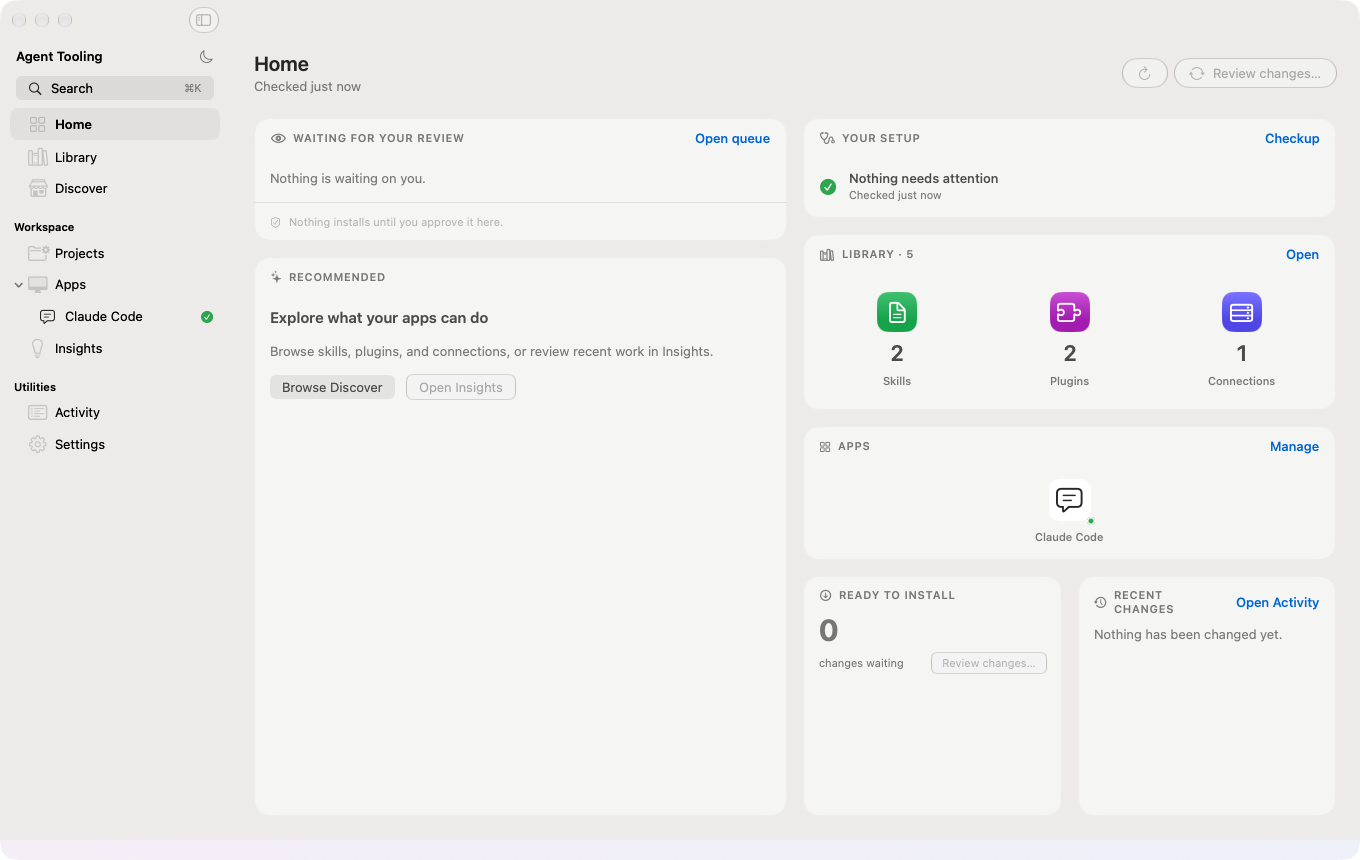
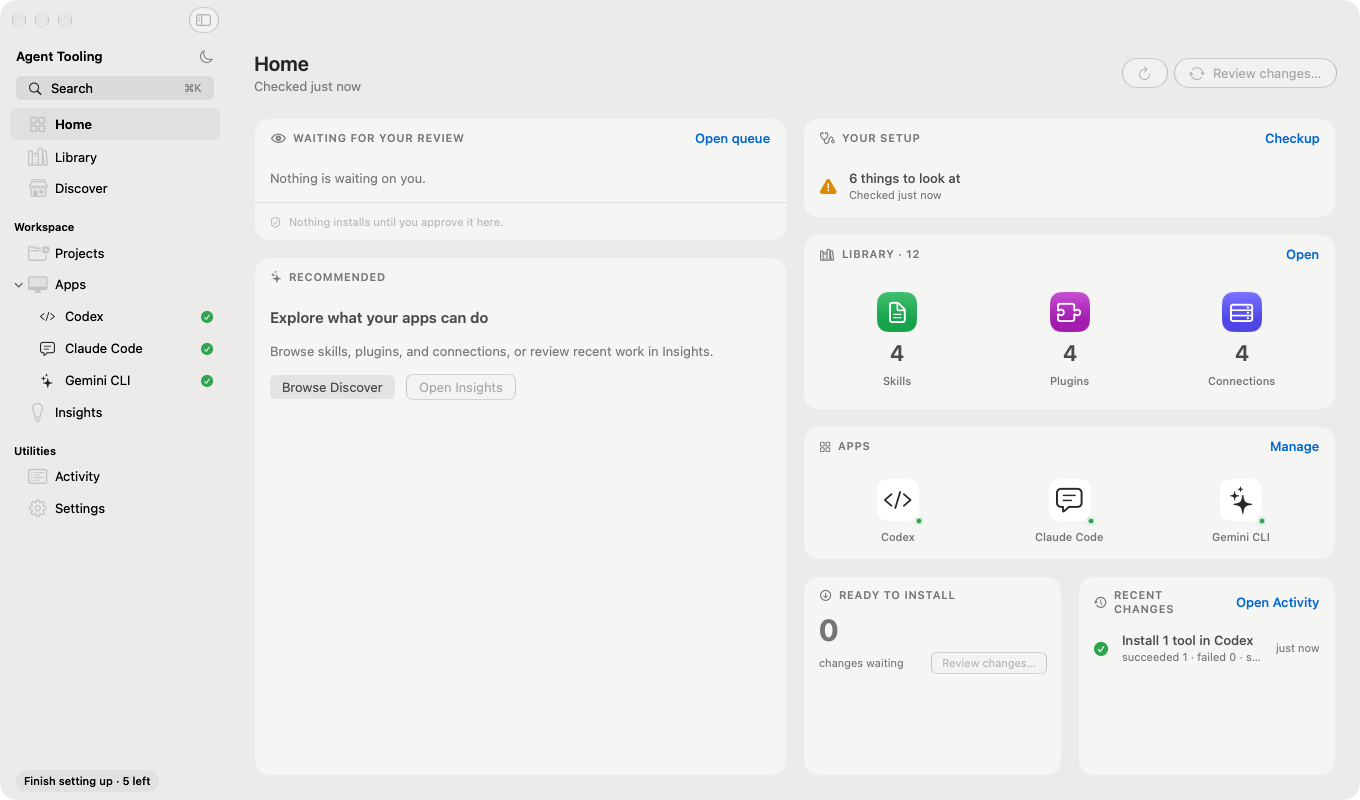
Refresh README and app screenshots

diff --git a/apps/agent-tooling-macos/Tests/AgentToolingAppTests/Render/DocumentationScreenshotsTests.swift b/apps/agent-tooling-macos/Tests/AgentToolingAppTests/Render/DocumentationScreenshotsTests.swift
@@ -14,26 +14,36 @@ struct DocumentationScreenshotsTests {
         let output = try #require(ProcessInfo.processInfo.environment["AGENT_TOOLING_DOCUMENTATION_OUTPUT"])
         let directory = URL(filePath: output, directoryHint: .isDirectory)
         try FileManager.default.createDirectory(at: directory, withIntermediateDirectories: true)
-        let fixture = try await ShellRenderFixture()
+        let fixture = try await LaunchpadFixture()
         defer { fixture.remove() }
         let preferences = try ShellRenderFixture.preferences()
         defer { preferences.remove() }
-        await fixture.populateForGallery()
-        await fixture.workspace.recordAssistantRuns(.off).value
-        await fixture.workspace.library.refresh()
-        await fixture.workspace.device.refresh()
-        await fixture.workspace.marketplace.refresh()
-        let savedSnapshot = try fixture.store.snapshot()
+        let (flow, sample) = try await fixture.flow(at: .afterInstall)
+        defer { sample.remove() }
+        let workspace = sample.workspace
+        await workspace.recordAssistantRuns(.off).value
+        flow.go(to: .done)
+        await LaunchpadDoneScreen.model(flow).appear(flow)
+        try #require(LaunchpadStageView.footer(for: flow).primary).action()
+        #expect(flow.pendingHandOff == .overview)
+        workspace.setupProgress.setChecklistHidden(true)
+        await workspace.library.refresh()
+        await workspace.device.refresh()
+        await workspace.marketplace.refresh()
+        let savedSnapshot = try workspace.store.snapshot()
         let snapshot = try #require(savedSnapshot)
         #expect(snapshot.document.subscriptions.isEmpty)
-        #expect(fixture.workspace.sync?.isConnected == false)
+        #expect(workspace.sync?.isConnected == false)
 
-        let size = CGSize(width: 1_360, height: 820)
+        let size = CGSize(width: 1_360, height: 760)
         for (section, name) in [(AppSection.overview, "app-home"), (.skills, "app-library")] {
             let view = ZStack {
                 AgentTheme.contentBackground
                 AgentTheme.canvasGradient
-                renderShell(section, fixture: fixture, size: size)
+                AppShellView(workspace: workspace, initialSection: section)
+                    .environment(\.snapshotNow, FinishSetupFixture.installedAt)
+                    .environment(\.stageMotion, .still)
+                    .environment(\.finishSetupServices, FinishSetupFixture.services)
                     .environment(\.skillContentService, StubSkillContentService())
                     .defaultAppStorage(preferences.defaults)
             }
@@ -48,7 +58,10 @@ struct DocumentationScreenshotsTests {
         try FileManager.default.createDirectory(at: directory, withIntermediateDirectories: true)
         let fixture = try await LaunchpadFixture()
         defer { fixture.remove() }
-        let flow = fixture.flow()
+        let (flow, sample) = try await fixture.flow(at: .afterLibrary)
+        defer { sample.remove() }
+        let placement = try #require(LaunchpadPlaceScreen.placement(for: flow))
+        await placement.load(decisions: flow.decisions)
         let view = ZStack {
             AgentTheme.stageGroundOpaque
             fixture.stage(flow)
@@ -79,6 +92,10 @@ struct DocumentationScreenshotsTests {
         host.appearance = window.appearance
         window.backgroundColor = .windowBackgroundColor
         window.contentView = host
+        if stage {
+            host.sizingOptions = []
+            window.setFrame(CGRect(origin: .zero, size: size), display: false)
+        }
         NSApplication.shared.setActivationPolicy(.regular)
         window.center()
         window.makeKeyAndOrderFront(nil)

diff --git a/README.md b/README.md
@@ -3,66 +3,65 @@
 A native macOS app for managing skills, plugins, and MCP connections across
 **Codex, Claude Code, Gemini CLI, and Kiro CLI**.
 
-Keep a local library, choose which apps and projects use each tool, and review
-changes before they affect your setup.
+Keep a local library, choose where tools are installed, and review changes to
+your setup.
 
-![Agent Tooling Home with a sample library](docs/images/app-home.png)
+[App guide](apps/agent-tooling-macos/README.md) ·
+[Releases](https://github.com/adalloul0928/agent-tooling/releases) ·
+[Report an issue](https://github.com/adalloul0928/agent-tooling/issues)
+
+![Home: connected apps, library status, and recent activity](docs/images/app-home.png)
 
 ## Install
 
 **Requires macOS 26 or later and an Apple Silicon Mac.**
 
-Packaged builds will be available on the [Releases page](https://github.com/adalloul0928/agent-tooling/releases).
-The first public DMG has not been published yet. When available, download
-`Agent-Tooling-arm64.dmg`, open it, and drag **Agent Tooling** into
-**Applications**. Eject the DMG and open the app from Applications. Updates use
-the same process; quit the app before replacing it.
+The first public DMG has not been published yet. [Build from source](#build-from-source)
+to try the app today, or check [Releases](https://github.com/adalloul0928/agent-tooling/releases)
+for a signed download.
 
-You can [build from source](#build-from-source) now. Agent Tooling manages
-existing client installations; install and sign in to the clients you want to
-use separately.
+Once a release is available, open `Agent-Tooling-arm64.dmg`, drag **Agent
+Tooling** into **Applications**, eject the DMG, and open the app. To update,
+quit Agent Tooling and replace it with the new version.
 
-## First launch
-
-Choose which apps to manage, review what Agent Tooling will read, and approve
-each installation. Setup can be resumed later from the Home screen.
-
-![Agent Tooling guided setup with sample data](docs/images/app-setup.png)
+Install and sign in to your chosen clients separately. Supported operations
+depend on each client's version; see [compatibility](docs/compatibility.md).
 
 ## What it does
 
-- **See your tools in one place.** Browse skills, plugins, and MCP connections
-  discovered in supported clients, with their sources and installation status.
-- **Install where you need them.** Assign tools to apps or projects, keep native
-  plugins together, and review conflicts or changes to existing files.
-- **Follow updates.** Track repository sources, check for new versions, and
-  choose whether to review or automatically install updates by tool type.
-- **Create and maintain skills.** Edit a local skill or draft one with an
-  installed Claude Code or Codex client.
-- **Check your setup.** Inspect configuration and proposed fixes, with receipts
-  and backups for changes made through the app.
-- **Use more than one Mac.** Optionally sync your library through a Git repository
-  you control. Each Mac applies its own changes.
+- **Manage your library.** Browse tools, inspect their sources, and assign them
+  to clients or projects. Native plugins stay together as packages.
+- **Review installations and updates.** Check conflicts and changes to existing
+  files, track repository updates, and keep receipts and backups of app changes.
+- **Create skills and check your setup.** Edit skills locally, or use an
+  installed Claude Code or Codex client to draft skills and inspect configuration.
+- **Share a library across Macs.** Optionally sync through a Git repository you
+  control. Each Mac reviews and applies its own installation changes.
 
-![Agent Tooling skill library using sample content](docs/images/app-library.png)
+![Library: skills, sources, and app assignments](docs/images/app-library.png)
 
-Screenshots show the app’s SwiftUI views rendered with synthetic test data.
+## Set up your Mac
+
+Guided setup lets you choose clients, review the locations Agent Tooling will
+read, and build a library from what it finds. Then choose tools to install,
+assistant permissions, and optional sync. You can resume setup from Home or
+reopen it from **Agent Tooling → Set Up This Mac…**.
+
+<img src="docs/images/app-setup.png" alt="Guided setup: choose which clients receive each tool" width="720">
+
+All screenshots show the app's actual SwiftUI views with synthetic sample data.
 
 ## Your data
 
-The app stores its workspace in
-`~/Library/Application Support/Agent Tooling/`. A GitHub account or sync
-repository is not required for local use.
+Your library lives in `~/Library/Application Support/Agent Tooling/`. Local use
+does not require a GitHub account or sync repository.
 
-Credentials remain with their owning client, account, or keychain. The portable
-workspace stores secret reference names rather than credential values. Client
-installs use a restricted command policy, and the app keeps records of its
-changes.
+Credentials stay with their owning client, account, or keychain. Portable
+workspace records contain credential references rather than secret values.
 
 Discovery, update checks, optional sync, and assistant features contact the
-services you choose. Assistant features use your installed client and its
-account. See the [app guide](apps/agent-tooling-macos/README.md) for details and
-limits.
+services you choose. Assistant requests use your installed client and account.
+See [privacy and feature limits](apps/agent-tooling-macos/README.md#assistants-accounts-and-privacy).
 
 ## Build from source
 
@@ -75,10 +74,9 @@ cd agent-tooling/apps/agent-tooling-macos
 open '.build/Agent Tooling.app'
 ```
 
-The packaging script builds the app and checks that its bundled dependency
-notices are present.
-Local builds use ad hoc signing; public distribution uses a separate signed
-and notarized [release workflow](docs/macos-app-release.md).
+The script builds, packages, and checks the app. Local builds use ad hoc
+signing. Public downloads use the signed and notarized
+[release workflow](docs/macos-app-release.md).
 
 To run the Swift tests from the same directory:
 
@@ -86,21 +84,20 @@ To run the Swift tests from the same directory:
 swift test --disable-sandbox --no-parallel
 ```
 
-## Documentation
+## Contribute
 
-- [App guide and development](apps/agent-tooling-macos/README.md)
+Report bugs and request features in [GitHub Issues](https://github.com/adalloul0928/agent-tooling/issues).
+Include the app version, macOS version, and steps to reproduce. Remove account
+details, secrets, and private paths from logs before sharing them.
+
+- [App guide and development](apps/agent-tooling-macos/README.md#development)
 - [Architecture and behavioral contracts](docs/README.md)
 - [Release instructions](docs/macos-app-release.md)
 - [Third-party components](docs/third-party-reuse-2026-09.md)
 
-Report bugs or request features in [GitHub Issues](https://github.com/adalloul0928/agent-tooling/issues).
-Include the app version, macOS version, and steps to reproduce. Remove secrets,
-account details, and private paths from logs before sharing them.
-
 ## License
 
-Agent Tooling is licensed under the [MIT License](LICENSE).
-Copyright © 2026 Agent Tooling contributors.
+Agent Tooling is [MIT licensed](LICENSE). Copyright © 2026 Agent Tooling contributors.
 
 Third-party dependencies retain their own licenses and notices. The macOS app
 includes its MIT license and [third-party notices](apps/agent-tooling-macos/Sources/AgentToolingApp/Resources/ThirdPartyNotices.txt).

diff --git a/apps/agent-tooling-macos/README.md b/apps/agent-tooling-macos/README.md
@@ -4,18 +4,20 @@ Agent Tooling manages a local library of skills, plugins, and MCP connections
 for Codex, Claude Code, Gemini CLI, and Kiro CLI. It is built with SwiftUI and
 stores its workspace in SQLite.
 
-![Agent Tooling Home](../../docs/images/app-home.png)
+[Overview and screenshots](../../README.md) ·
+[Compatibility](../../docs/compatibility.md) ·
+[Release guide](../../docs/macos-app-release.md)
 
 ## Install
 
 Requires macOS 26 or later and Apple Silicon. The first public DMG has not been
-published yet; check [Releases](https://github.com/adalloul0928/agent-tooling/releases)
-for availability. When available, download `Agent-Tooling-arm64.dmg`, open it, and drag **Agent Tooling** into
+published yet. [Build from source](#build-and-run) to try the app now, or check
+[Releases](https://github.com/adalloul0928/agent-tooling/releases) for availability.
+When available, download `Agent-Tooling-arm64.dmg`, open it, and drag **Agent Tooling** into
 **Applications**. Eject the DMG and open the app from Applications. To update,
 quit the app and replace it with the new version. Packaged builds do not require
 Xcode or a repository checkout.
 
-To use the app before a release is available, [build from source](#build-and-run).
 Install and sign in to your chosen clients separately.
 
 ## First launch
@@ -116,11 +118,9 @@ and Swift 6.2 or later. Run these commands in `apps/agent-tooling-macos`:
 open '.build/Agent Tooling.app'
 ```
 
-The script uses the release configuration, assembles the app bundle, signs it
-ad hoc, and runs `--verify-resources` against the packaged app. This check reads
-the dependency notices from the app itself, preventing a missing resource bundle
-from being hidden by files left in a development directory. Tool and client
-icons use native SF Symbols.
+The script builds the release configuration, assembles and signs the bundle ad
+hoc, then verifies its bundled resources. Tool and client icons use native SF
+Symbols.
 
 To choose another destination or a debug build:
 
@@ -141,7 +141,7 @@ lives inside the app bundle and is also used by the optional
 
 ```sh
 swift build --disable-sandbox
-swift test --disable-sandbox
+swift test --disable-sandbox --no-parallel
 swift format lint --strict -r Sources Tests Package.swift
 ```
 
@@ -171,8 +171,9 @@ installation, sync, and security contracts.
 
 ## Documentation screenshots
 
-Run `./scripts/capture-screenshots.sh` to capture the Home, Library, and setup screens into
-`docs/images/`. The app's real SwiftUI views use temporary test workspaces and
+Run `./scripts/capture-screenshots.sh` from this directory to capture Home,
+Library, and setup into the repository's `docs/images/` folder. The app's real
+SwiftUI views use temporary test workspaces and
 stub services, with no real accounts or client commands. The script briefly
 opens sample windows and requires Screen Recording access. Captures include
 only those windows; image metadata is removed before saving.
